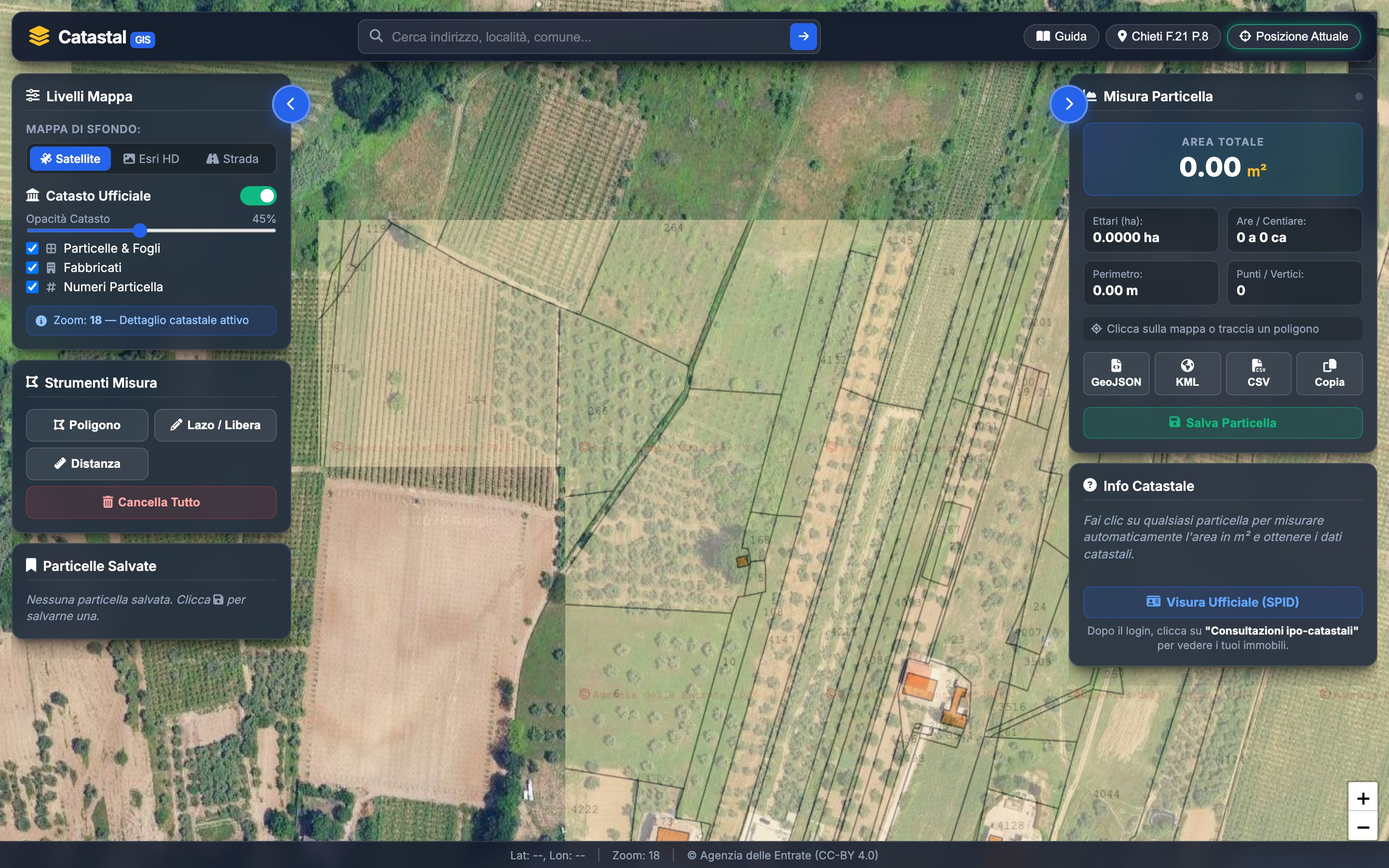
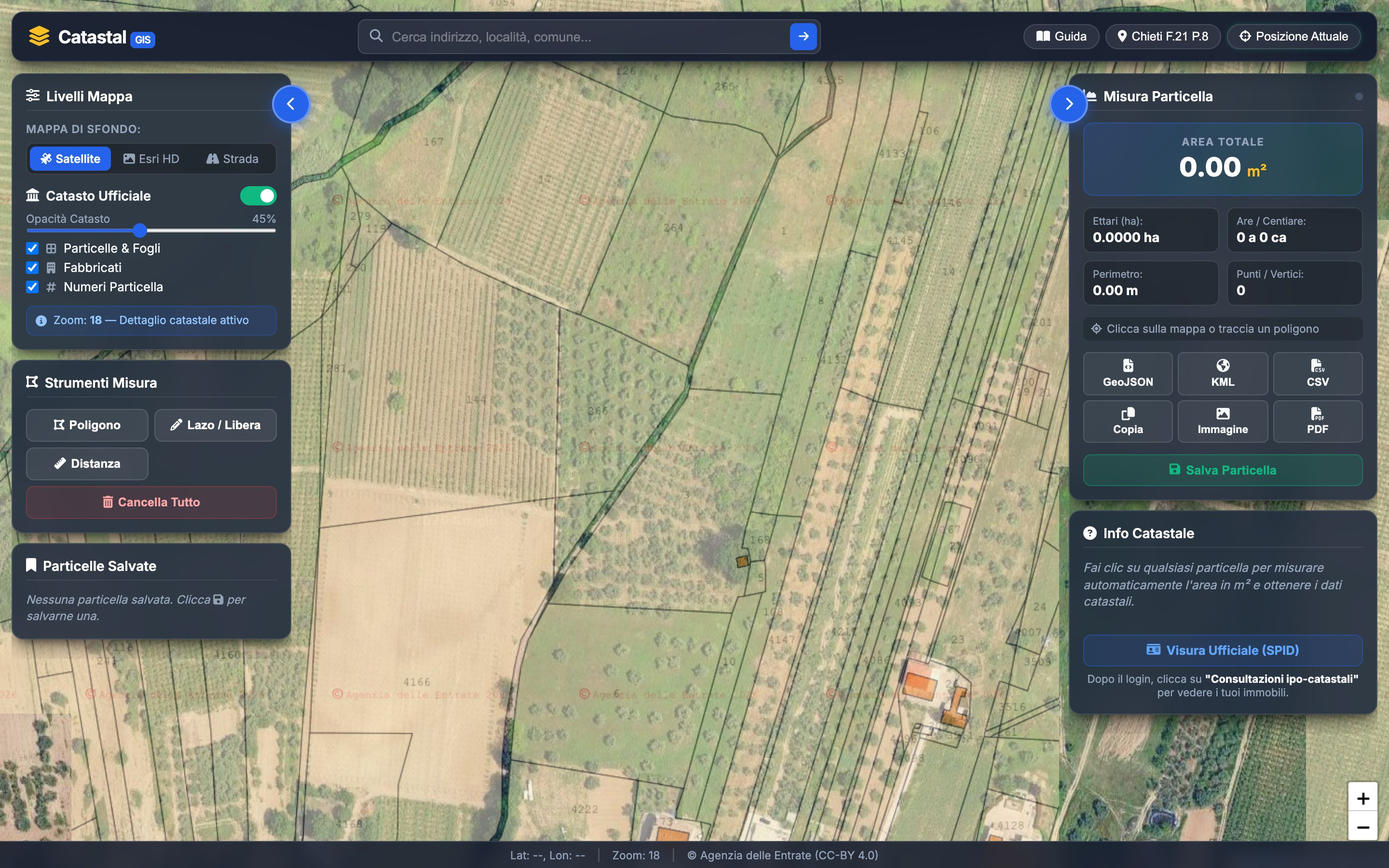
fix: adjust desktop panel translate, remove native Geoman toolbar, fix Guide modal, clean PDF export

Changed region(s): [[0.0, 0.0, 1.0, 0.9956], [0.75, 0.4044, 1.0, 0.9956]]

diff --git a/public/app.js b/public/app.js
@@ -135,21 +135,7 @@ const parcelVectorLayer = L.geoJSON(null, {
 let locationMarker = null;
 let locationCircle = null;
 
-// Leaflet-Geoman Toolbar
-map.pm.addControls({
-  position: 'topright',
-  drawCircle: false,
-  drawCircleMarker: false,
-  drawMarker: false,
-  drawText: false,
-  drawPolyline: true,
-  drawRectangle: true,
-  drawPolygon: true,
-  editMode: true,
-  dragMode: true,
-  cutPolygon: false,
-  removalMode: true
-});
+// Native Leaflet-Geoman Toolbar removed because we use custom buttons in the left panel
 
 map.pm.setGlobalOptions({
   pathOptions: {

diff --git a/public/style.css b/public/style.css
@@ -297,11 +297,11 @@ body, html {
 }
 
 .floating-panel.collapsed {
-  transform: translateX(-115%);
+  transform: translateX(-100%);
 }
 
 .floating-panel.collapsed.right-panel {
-  transform: translateX(115%);
+  transform: translateX(100%);
 }
 
 .left-panel {
